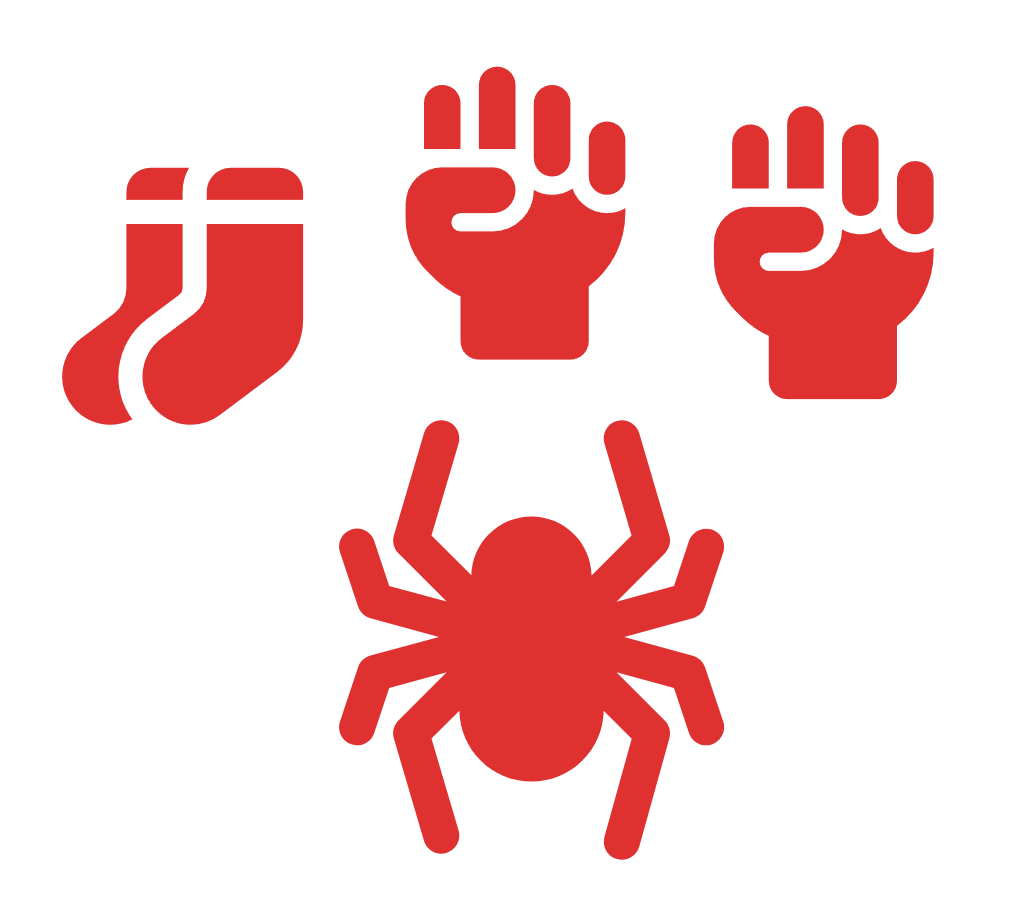
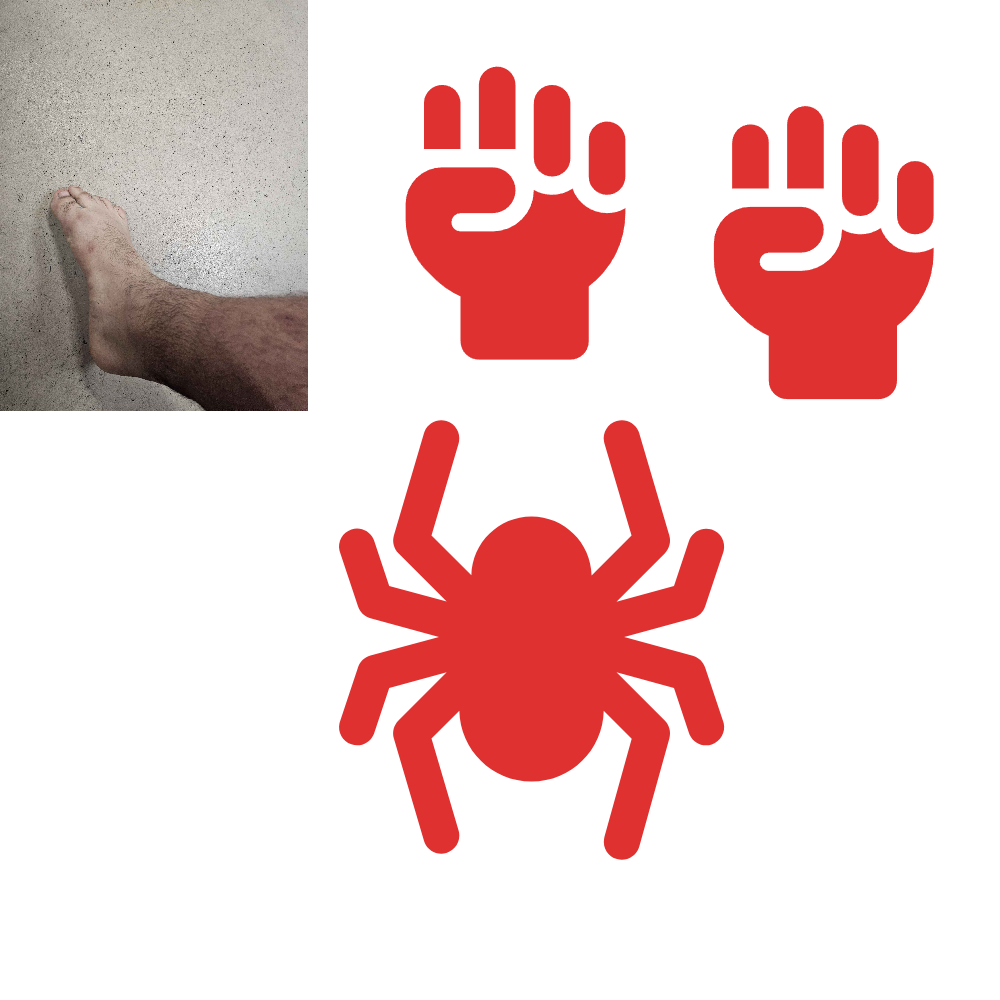
aaaaaa

diff --git a/MainUnityProject/Assets/Scripts/Tutorial.cs b/MainUnityProject/Assets/Scripts/Tutorial.cs
@@ -35,7 +35,12 @@ public class Tutorial : MonoBehaviour
             yield return new WaitForSeconds((0.05f/(1.0f/Time.timeScale)));
         }
         
-        if (currentStep == tutorialTexts.Length-1)
+        if (currentStep == tutorialTexts.Length-2)
+        {
+            yield return new WaitForSeconds(3);
+            nextStep();
+        }
+        else if (currentStep == tutorialTexts.Length-1)
         {
             currentStep = -2;
             yield return new WaitForSeconds(3);
